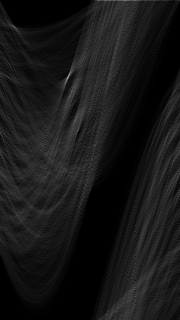
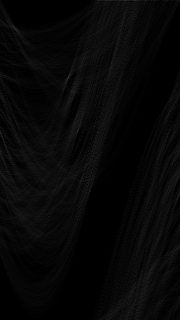
answer_44 CannyEdgeの抽出結果をPythonプログラムで抽出したものに変更

diff --git a/Answer_41_50/answer_44.go b/Answer_41_50/answer_44.go
@@ -290,60 +290,35 @@ func hysteresisThresholding(thiningEdgeArray [][]float64, high, low float64) [][
 			}
 		}
 	}
-	// threshEdgeFile, err := os.Create("./answer_44_edge.jpg")
-	// defer threshEdgeFile.Close()
-	// if err != nil {
-	// 	log.Fatal(err)
-	// }
-	// jpeg.Encode(threshEdgeFile, threshEdgeImage, &jpeg.Options{100})
-
 	return threshEdgeArray
 }
 
 func main() {
-	file, err := os.Open("./../Question_41_50/thorino.jpg")
-	defer file.Close()
+	cannyEdgeFile, err := os.Open("./canny_edge_thorino.jpg")
+	// cannyEdgeFile, err := os.Open("./answer_44.jpg")
+	defer cannyEdgeFile.Close()
 	if err != nil {
 		log.Fatal(err)
 	}
-	jpegImage, err := jpeg.Decode(file)
+	cannyEdgeImage, err := jpeg.Decode(cannyEdgeFile)
 	if err != nil {
 		log.Fatal(err)
 	}
 
-	// グレイスケース変換
-	grayArray := color2Gray(jpegImage)
+	H := cannyEdgeImage.Bounds().Size().Y
+	W := cannyEdgeImage.Bounds().Size().X
+	cannyEdgeArray := make([][]float64, H)
+	for i := range cannyEdgeArray {
+		cannyEdgeArray[i] = make([]float64, W)
+	}
 
-	// ガウシアンフィルタを適用
-	gH, gW := 5, 5
-	sigma := 1.4
-	grayGaussianArray := gaussianFilter(grayArray, gH, gW, sigma)
+	for y := 0; y < H; y++ {
+		for x := 0; x < W; x++ {
+			r, _, _, _ := cannyEdgeImage.At(x, y).RGBA()
+			cannyEdgeArray[y][x] = float64(r) * 0xFF / 0xFFFF
+		}
+	}
 
-	// 縦方向Sobelフィルタを作成
-	sobelFilterV := [3][3]float64{
-		{-1, -2, -1},
-		{0, 0, 0},
-		{1, 2, 1}}
-
-	fyArray, _ := sobelFileter(grayGaussianArray, sobelFilterV)
-
-	// 横方向Sobelフィルタを作成
-	sobelFilterH := [3][3]float64{
-		{-1, 0, 1},
-		{-2, 0, 2},
-		{-1, 0, 1}}
-
-	fxArray, _ := sobelFileter(grayGaussianArray, sobelFilterH)
-
-	edgeArray, angleArray, _, _ := calcGradientIntensityAndAngle(fxArray, fyArray)
-	thiningEdgeArray := thining(edgeArray, angleArray)
-
-	HT := 100.0
-	LT := 30.0
-	cannyEdgeArray := hysteresisThresholding(thiningEdgeArray, HT, LT)
-
-	H := len(cannyEdgeArray)
-	W := len(cannyEdgeArray[0][:])
 	rmax := int(math.Hypot(float64(W), float64(H)))
 
 	houghArray := make([][]int, rmax)
